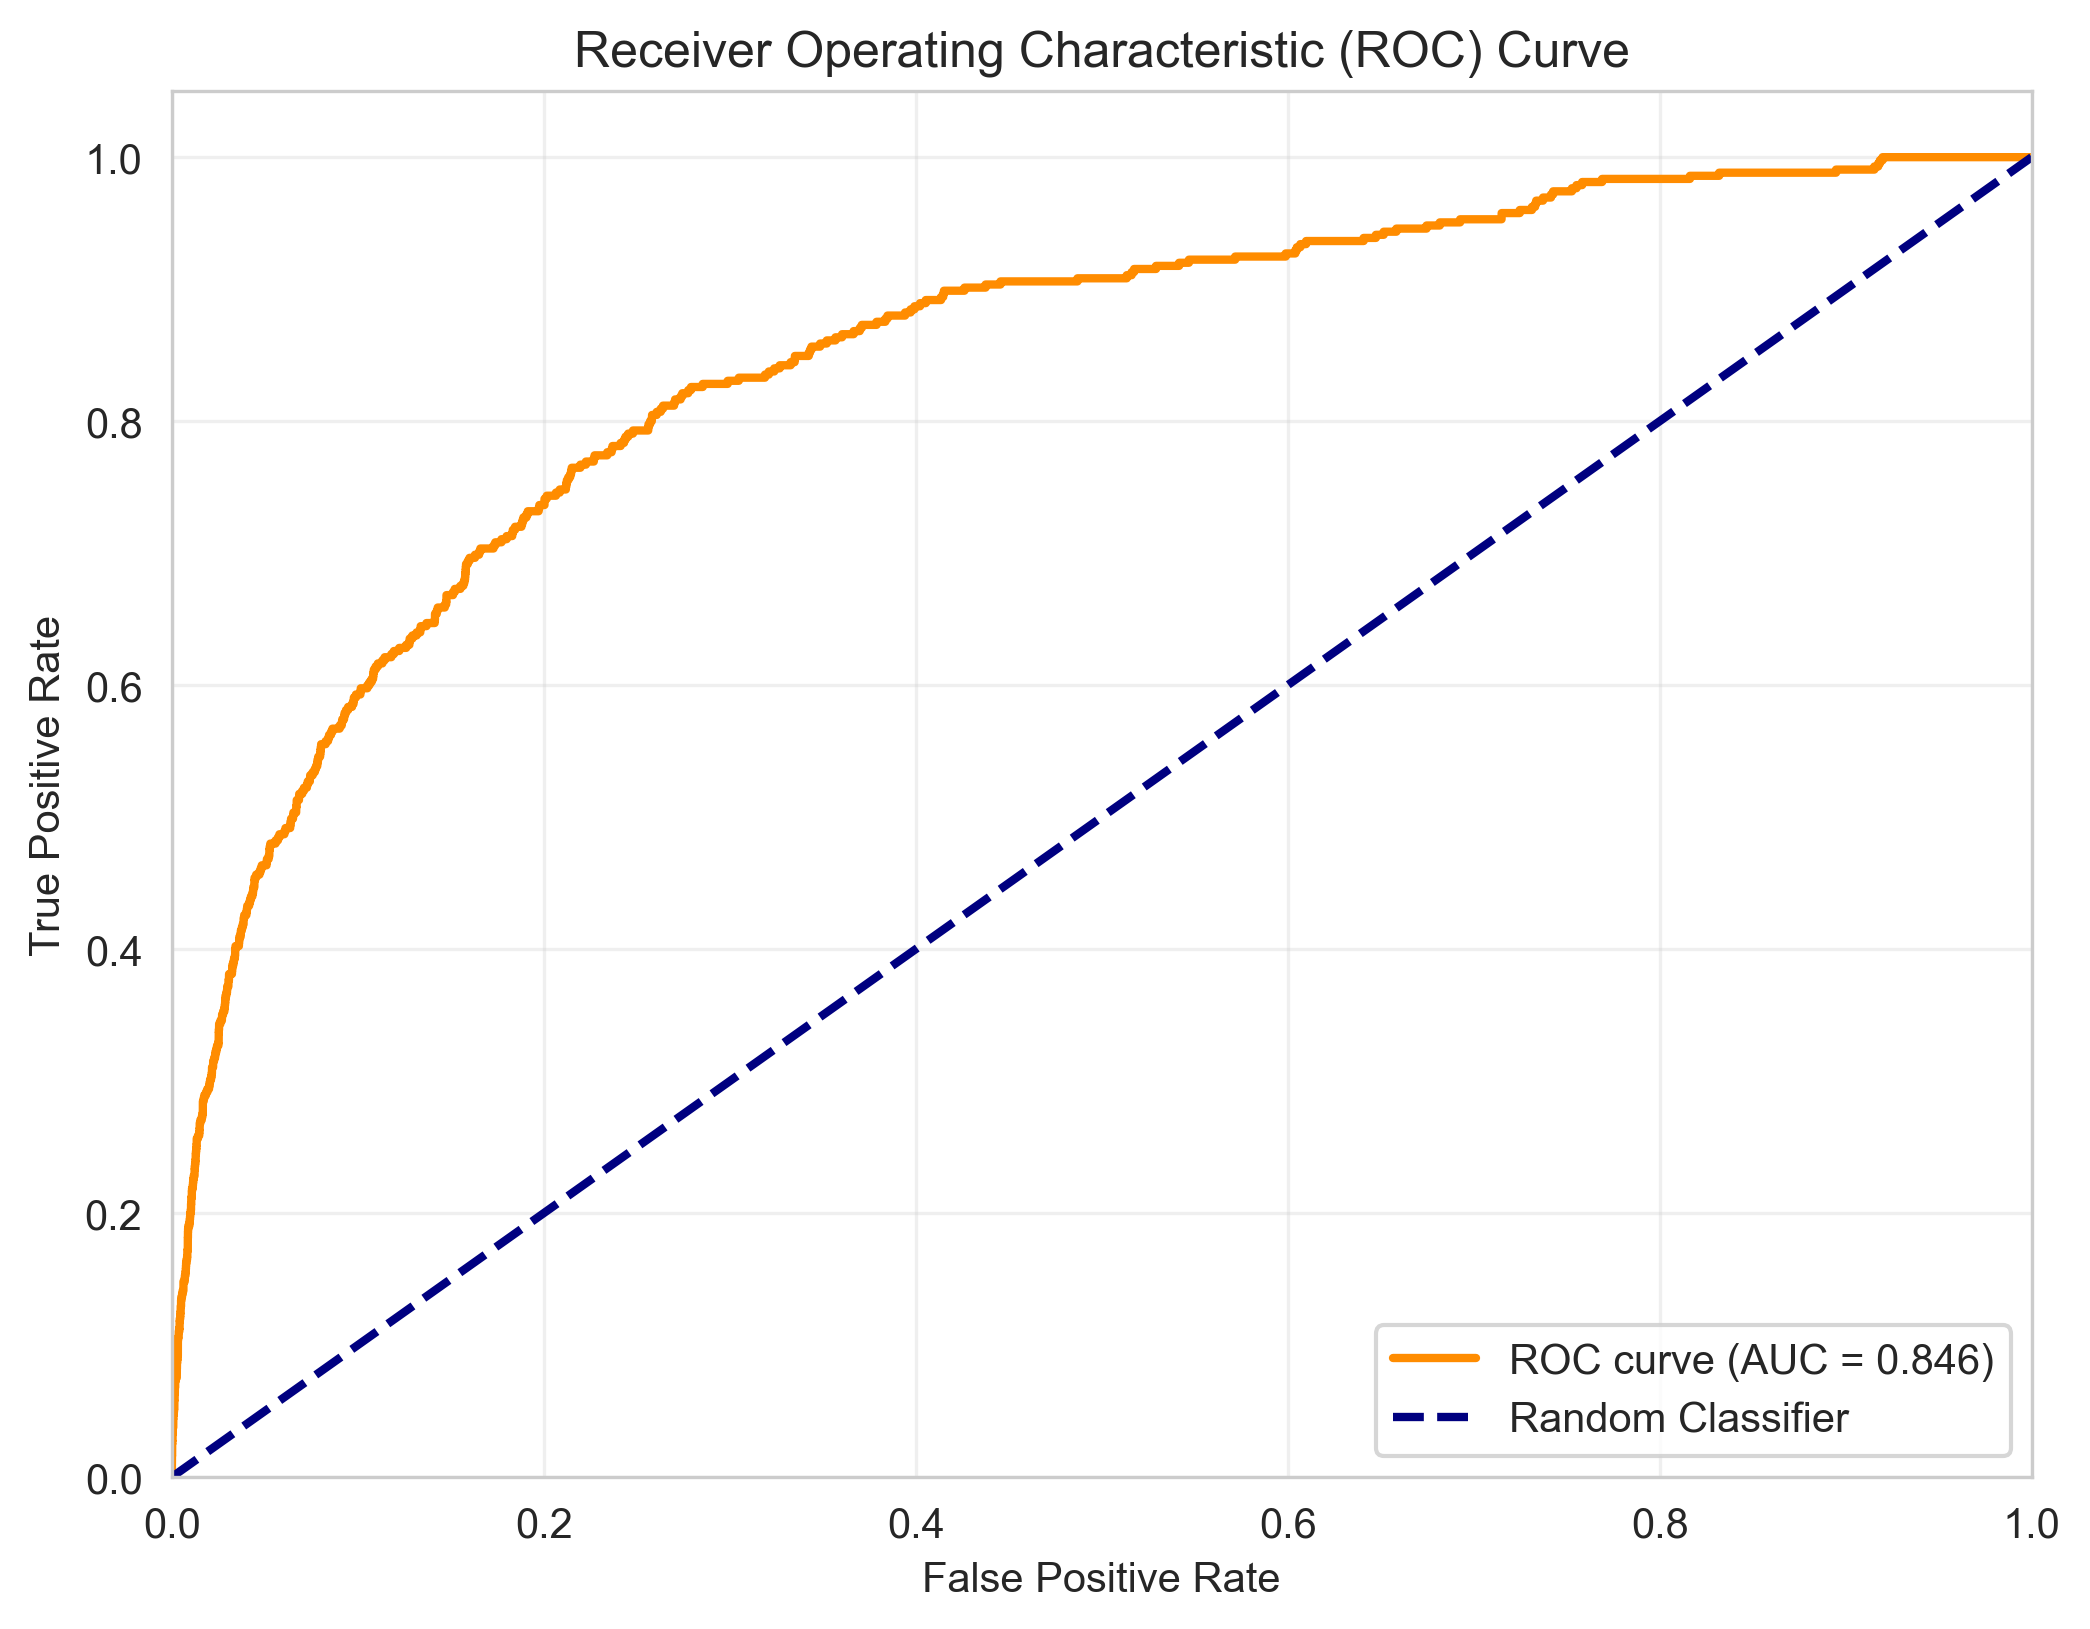
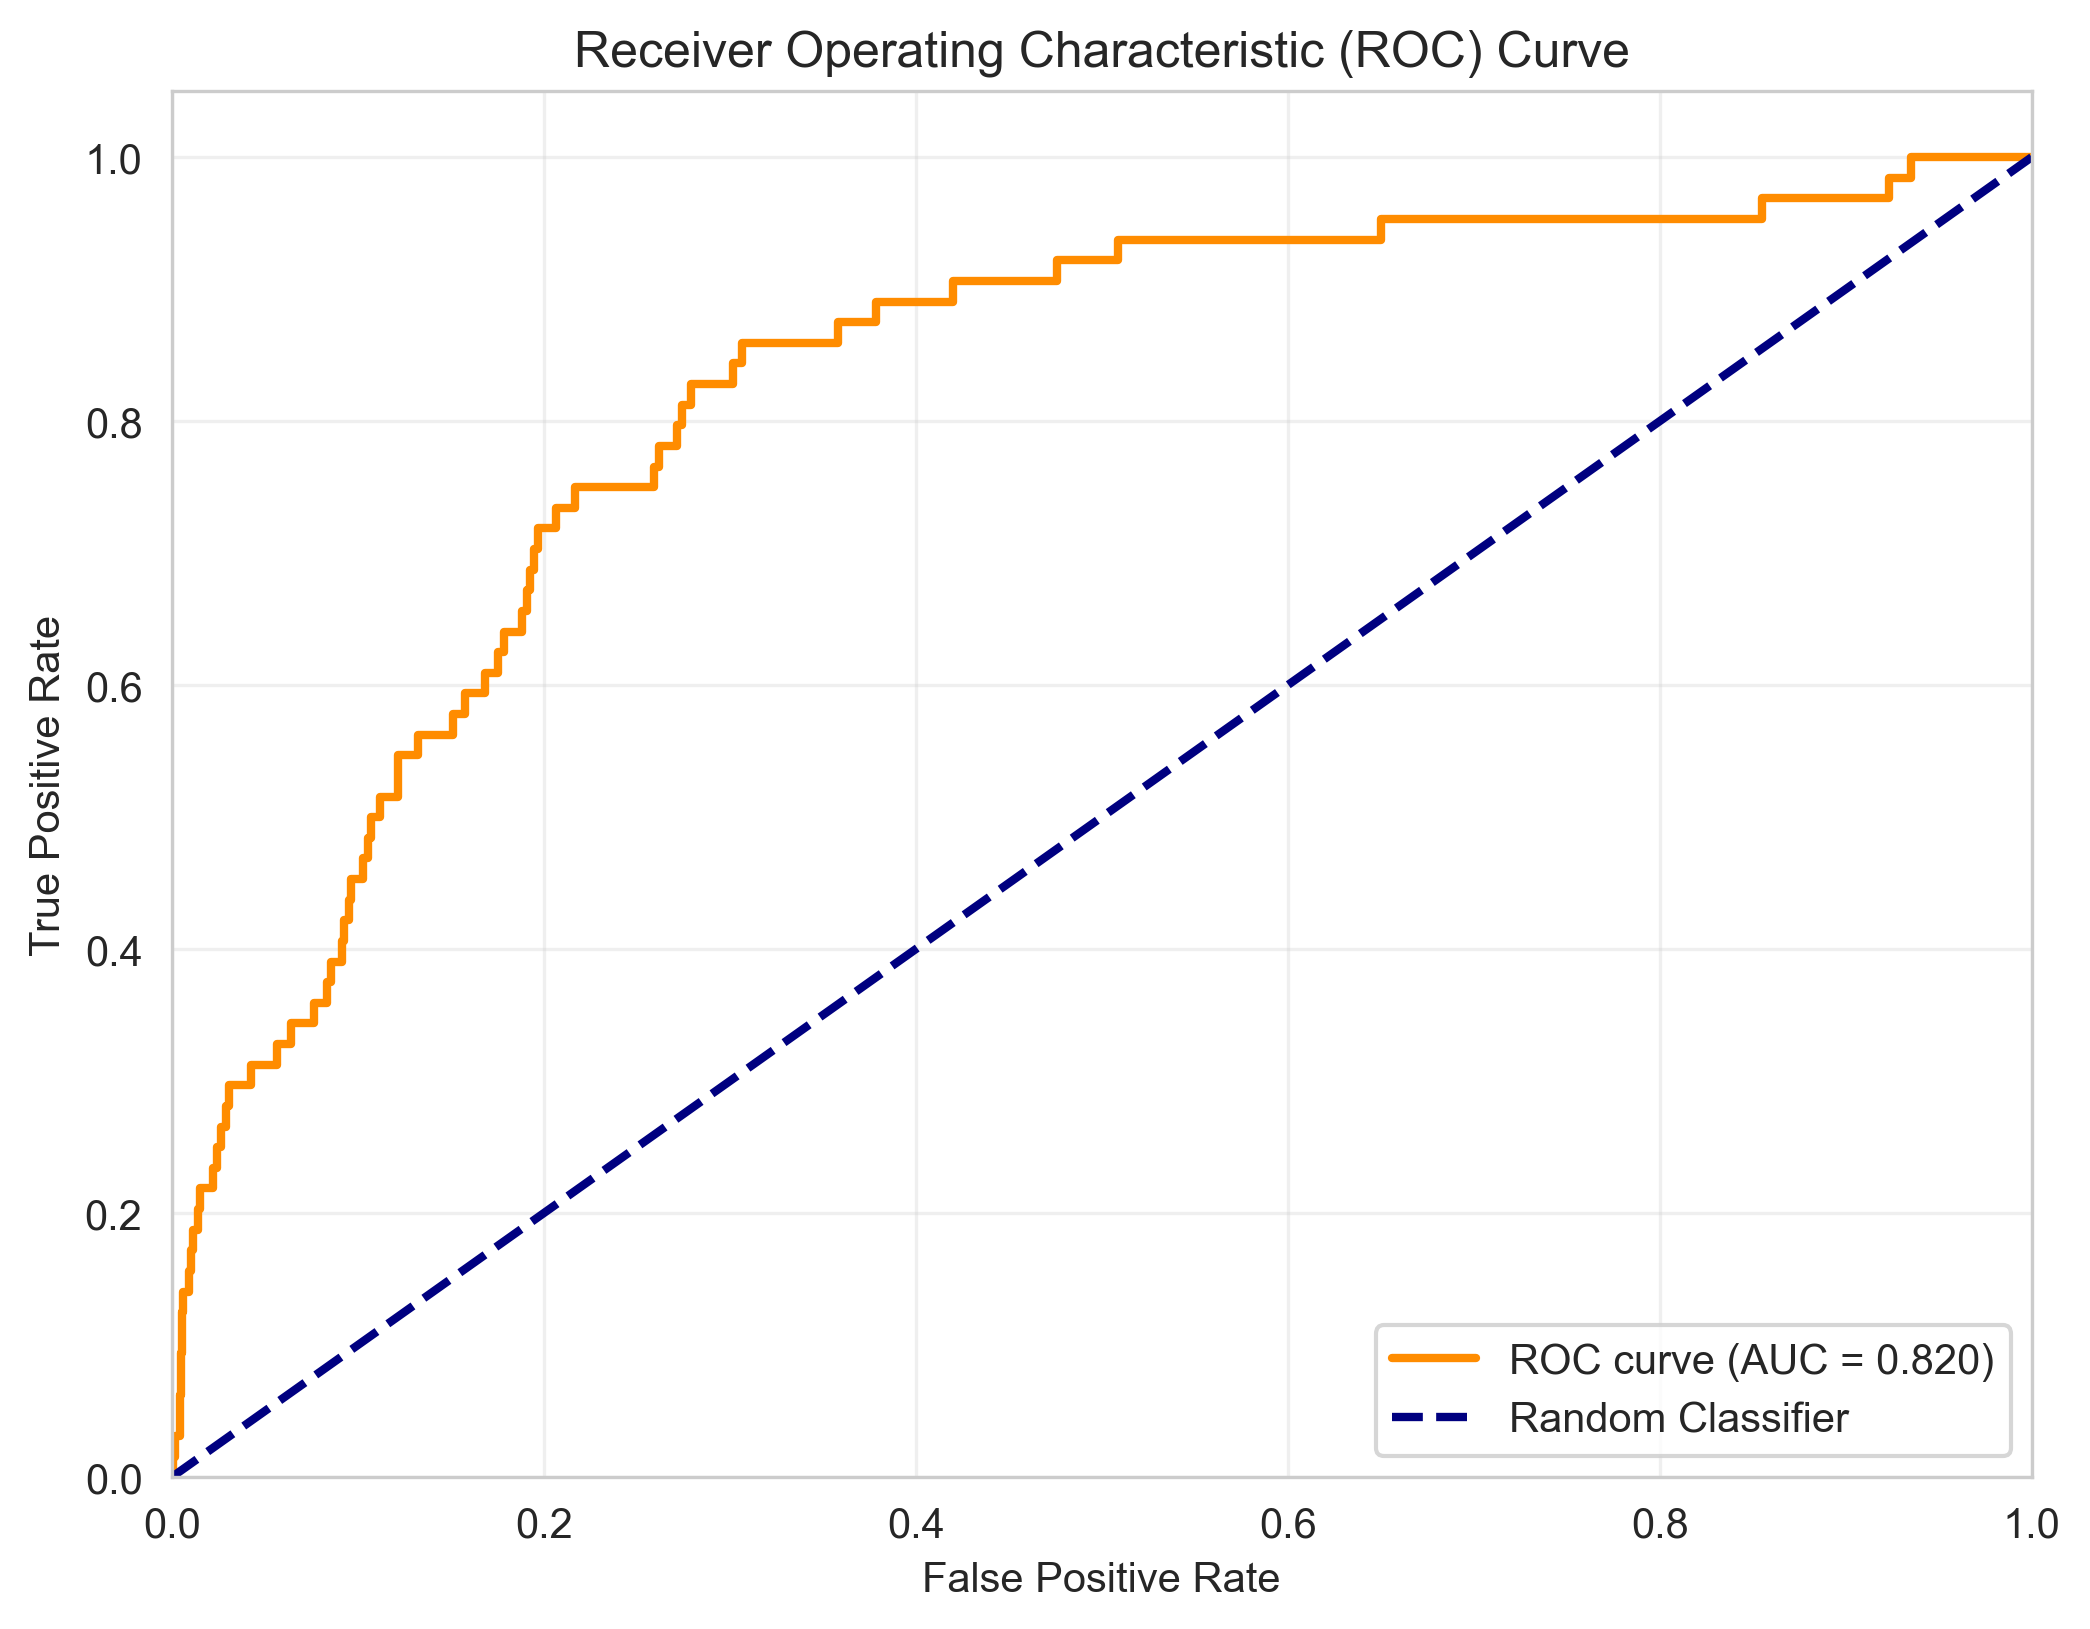
feat: Implement multi-variant federated learning with new data loading logic and generate model evaluation and explanation artifacts.

diff --git a/data_loader_bank.py b/data_loader_bank.py
@@ -190,6 +190,126 @@ class BankAccountFraudLoader:
         return (X_train_processed, X_test_processed, 
                 y_train_processed, y_test_processed, 
                 feature_names)
+    
+    def load_multi_variant(self, sample_size: int = None,
+                           data_dir: str = 'data') -> Tuple:
+        """
+        Load all 6 dataset variants for multi-variant federated training.
+        Each variant becomes one federated client's data.
+        
+        Args:
+            sample_size: Optional sample size PER variant (for testing)
+            data_dir: Directory containing CSV files
+            
+        Returns:
+            (client_data_list, X_test, y_test, feature_names)
+            where client_data_list = [(X1, y1), ..., (X6, y6)]
+        """
+        variant_files = [
+            ('Base', f'{data_dir}/Base.csv'),
+            ('Variant I', f'{data_dir}/Variant I.csv'),
+            ('Variant II', f'{data_dir}/Variant II.csv'),
+            ('Variant III', f'{data_dir}/Variant III.csv'),
+            ('Variant IV', f'{data_dir}/Variant IV.csv'),
+            ('Variant V', f'{data_dir}/Variant V.csv'),
+        ]
+        
+        print(f"\n📊 Loading {len(variant_files)} dataset variants...")
+        print("-" * 60)
+        
+        # Load all variants
+        all_dfs = []
+        for name, path in variant_files:
+            if not os.path.exists(path):
+                print(f"  ⚠ {name} not found at {path}, skipping")
+                continue
+            
+            if sample_size:
+                df = pd.read_csv(path, nrows=sample_size)
+            else:
+                df = pd.read_csv(path)
+            
+            # Drop extra columns (x1, x2 in Variant III and V)
+            extra_cols = [c for c in df.columns 
+                         if c not in self.FEATURE_COLUMNS + [self.TARGET_COLUMN]]
+            if extra_cols:
+                df = df.drop(columns=extra_cols)
+            
+            fraud_rate = df[self.TARGET_COLUMN].mean()
+            print(f"  {name:15s} | {len(df):>10,} samples | "
+                  f"{df[self.TARGET_COLUMN].sum():>6,} fraud ({fraud_rate:.2%})")
+            
+            all_dfs.append((name, df))
+        
+        # Create a combined test set (10% from each variant)
+        test_frames = []
+        train_frames = []
+        
+        for name, df in all_dfs:
+            train_df, test_df = train_test_split(
+                df, test_size=0.1, random_state=self.random_state,
+                stratify=df[self.TARGET_COLUMN]
+            )
+            train_frames.append((name, train_df))
+            test_frames.append(test_df)
+        
+        combined_test = pd.concat(test_frames, ignore_index=True)
+        
+        print(f"\n  Combined test set: {len(combined_test):,} samples "
+              f"({combined_test[self.TARGET_COLUMN].sum():,} fraud)")
+        
+        # Fit scaler on combined training data
+        combined_train_X = pd.concat(
+            [df[self.FEATURE_COLUMNS] for _, df in train_frames],
+            ignore_index=True
+        )
+        combined_train_y = pd.concat(
+            [df[self.TARGET_COLUMN] for _, df in train_frames],
+            ignore_index=True
+        )
+        
+        # Preprocess combined to fit scaler and encoders
+        self.preprocess(combined_train_X, combined_train_y, fit=True)
+        
+        # Process test set
+        X_test, y_test = self.preprocess(
+            combined_test[self.FEATURE_COLUMNS],
+            combined_test[self.TARGET_COLUMN],
+            fit=False
+        )
+        
+        # Process each variant's training data with balanced subsampling
+        client_data = []
+        for name, df in train_frames:
+            X_client, y_client = self.preprocess(
+                df[self.FEATURE_COLUMNS],
+                df[self.TARGET_COLUMN],
+                fit=False
+            )
+            
+            # Balance each client: equal fraud + legitimate samples
+            fraud_idx = np.where(y_client == 1)[0]
+            legit_idx = np.where(y_client == 0)[0]
+            n_fraud = len(fraud_idx)
+            
+            # Subsample legitimate to match fraud count
+            np.random.shuffle(legit_idx)
+            legit_selected = legit_idx[:n_fraud]
+            
+            # Combine and shuffle
+            balanced_idx = np.concatenate([fraud_idx, legit_selected])
+            np.random.shuffle(balanced_idx)
+            
+            X_balanced = X_client[balanced_idx]
+            y_balanced = y_client[balanced_idx]
+            
+            client_data.append((X_balanced, y_balanced))
+            print(f"  Client ({name:15s}): {len(X_balanced):>8,} samples "
+                  f"({n_fraud:,} fraud + {n_fraud:,} legit = 50:50)")
+        
+        print(f"\n✅ {len(client_data)} clients ready for federated training")
+        
+        return client_data, X_test, y_test, self.FEATURE_COLUMNS
 
 
 class FederatedBankAccountDistributor:

diff --git a/train_bank_account.py b/train_bank_account.py
@@ -38,7 +38,7 @@ def main(args):
     # ========================================================================
     # STEP 1: Load and Prepare Data
     # ========================================================================
-    print("📊 STEP 1: Loading Bank Account Fraud Dataset...")
+    print("📊 STEP 1: Loading Data...")
     print("-" * 80)
     
     loader = BankAccountFraudLoader(
@@ -48,36 +48,40 @@ def main(args):
         random_state=42
     )
     
-    # Load data (use sample for quick testing)
-    sample_size = args.sample_size if args.sample_size else None
-    
-    # IMPORTANT: NO SMOTE for federated learning!
-    # SMOTE creates synthetic data that causes aggregation issues
-    # Instead, we use class weights to handle imbalance
-    # This preserves real data patterns during federated aggregation
-    X_train, X_test, y_train, y_test, feature_names = loader.load_and_split(
-        sample_size=sample_size,
-        balance_classes=False  # NO SMOTE - use class weights instead
-    )
-    
-    print(f"\n✅ Data loaded successfully!")
-    print(f"   Training samples: {len(X_train):,}")
-    print(f"   Test samples: {len(X_test):,}")
-    print(f"   Features: {len(feature_names)}")
-    print(f"   Fraud rate: {np.mean(y_train)*100:.2f}% (using class weights to handle imbalance)")
-    
-    # ========================================================================
-    # STEP 2: Distribute Data Across Federated Clients
-    # ========================================================================
-    print(f"\n📡 STEP 2: Distributing Data to {args.num_clients} Federated Clients...")
-    print("-" * 80)
-    
-    distributor = FederatedBankAccountDistributor(
-        num_clients=args.num_clients,
-        distribution='balanced'  # Each client gets equal fraud + legitimate samples
-    )
-    
-    client_data = distributor.distribute_data(X_train, y_train)
+    if args.multi_variant:
+        # Multi-variant mode: each variant = 1 client
+        print("MODE: Multi-Variant (each dataset variant = 1 federated client)")
+        client_data, X_test, y_test, feature_names = loader.load_multi_variant(
+            sample_size=args.sample_size,
+            data_dir='data'
+        )
+        input_dim = client_data[0][0].shape[1]
+        num_clients = len(client_data)
+    else:
+        # Single dataset mode (original behavior)
+        sample_size = args.sample_size if args.sample_size else None
+        X_train, X_test, y_train, y_test, feature_names = loader.load_and_split(
+            sample_size=sample_size,
+            balance_classes=False
+        )
+        
+        print(f"\n✅ Data loaded successfully!")
+        print(f"   Training samples: {len(X_train):,}")
+        print(f"   Test samples: {len(X_test):,}")
+        print(f"   Features: {len(feature_names)}")
+        print(f"   Fraud rate: {np.mean(y_train)*100:.2f}%")
+        
+        # Distribute data across clients
+        print(f"\n📡 STEP 2: Distributing Data to {args.num_clients} Federated Clients...")
+        print("-" * 80)
+        
+        distributor = FederatedBankAccountDistributor(
+            num_clients=args.num_clients,
+            distribution='balanced'
+        )
+        client_data = distributor.distribute_data(X_train, y_train)
+        input_dim = X_train.shape[1]
+        num_clients = args.num_clients
     
     # ========================================================================
     # STEP 3: Initialize Federated Learning
@@ -85,13 +89,8 @@ def main(args):
     print(f"\n🔧 STEP 3: Initializing Federated Learning...")
     print("-" * 80)
     
-    # Create global model and federated server
-    input_dim = X_train.shape[1]
-    
-    # Create federated server (it creates its own global model)
     server = FederatedServer(input_dim=input_dim)
     
-    # Create federated clients
     clients = []
     for i, (X_client, y_client) in enumerate(client_data):
         client = FederatedClient(
@@ -332,6 +331,12 @@ if __name__ == "__main__":
         type=int,
         default=None,
         help='Sample size for quick testing (default: None, use full dataset)'
+    )
+    
+    parser.add_argument(
+        '--multi-variant',
+        action='store_true',
+        help='Use all 6 dataset variants (Base + Variant I-V), each as a separate client'
     )
     
     args = parser.parse_args()
